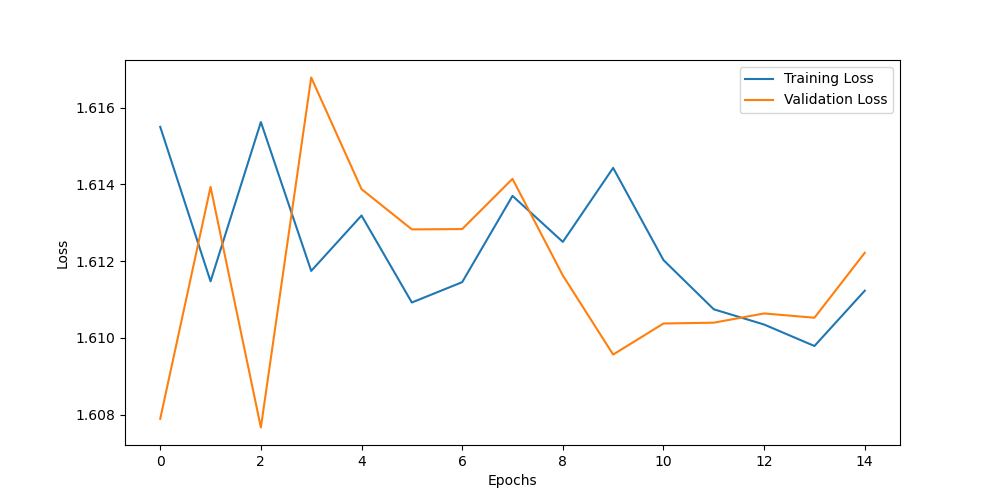
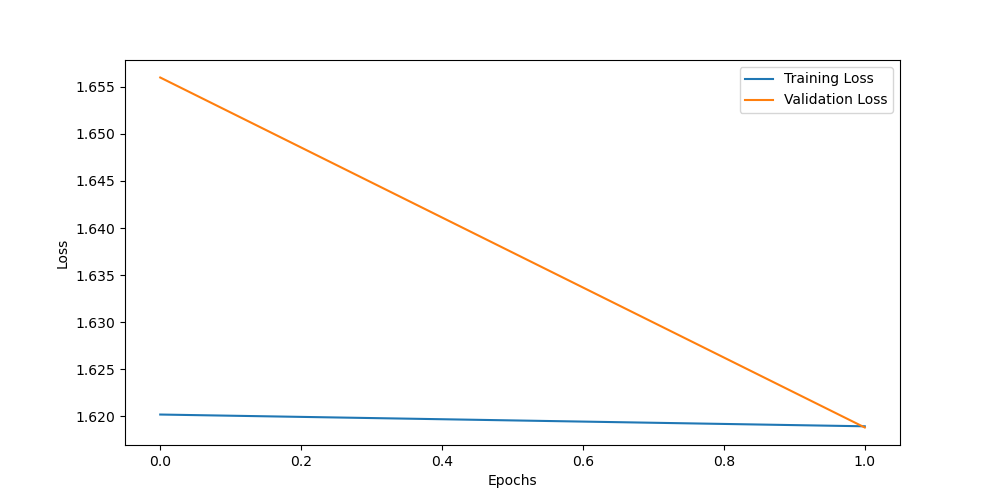
Feature extraction tested on the whole dataset

diff --git a/thermal_embedding/feature_extraction.py b/thermal_embedding/feature_extraction.py
@@ -1,0 +1,99 @@
+import torch
+import torch.nn as nn
+import torch.optim as optim
+from torchvision import datasets, transforms
+from facenet_pytorch import InceptionResnetV1
+from torch.utils.data import DataLoader, random_split
+from tqdm import tqdm
+
+# Check if CUDA is available
+device = torch.device('cuda:1' if torch.cuda.is_available() else 'cpu')
+print('Using device:', device)
+
+# 1. Prepare Dataset
+dataset_path = "/media/meysam/NewVolume/MintPain_dataset/cropped_face/thermal_classified"
+dataset = datasets.ImageFolder(dataset_path, transform=transforms.Compose([
+    transforms.Resize((160, 160)),
+    transforms.RandomHorizontalFlip(),
+    transforms.ToTensor(),
+    transforms.Normalize(mean=[0.5, 0.5, 0.5], std=[0.5, 0.5, 0.5]),
+]))
+
+# Split dataset
+train_size = int(0.7 * len(dataset))
+val_size = int(0.15 * len(dataset))
+test_size = len(dataset) - train_size - val_size
+train_dataset, val_dataset, test_dataset = random_split(dataset, [train_size, val_size, test_size])
+
+# Create DataLoader for each set
+batch_size = 64
+train_loader = DataLoader(train_dataset, batch_size, shuffle=True)
+val_loader = DataLoader(val_dataset, batch_size, shuffle=False)
+test_loader = DataLoader(test_dataset, batch_size, shuffle=False)
+
+# 2. Load Pre-trained Model
+model = InceptionResnetV1(pretrained='vggface2', classify=True, num_classes=len(dataset.class_to_idx))
+model = model.to(device)
+
+# 3. Define Loss Function and Optimizer
+criterion = nn.CrossEntropyLoss()
+optimizer = optim.Adam(model.parameters(), lr=1e-4)
+
+# 4. Training Loop
+num_epochs = 10
+for epoch in range(num_epochs):
+    model.train()
+    running_loss = 0.0
+    total = 0
+    correct = 0
+    print(f'Epoch [{epoch + 1}/{num_epochs}')
+    progress_bar = tqdm(train_loader, unit='batch')
+    for inputs, labels in progress_bar:
+        inputs, labels = inputs.to(device), labels.to(device)
+        optimizer.zero_grad()
+        outputs = model(inputs)
+        _, predicted = torch.max(outputs.data, 1)
+        total += labels.size(0)
+        correct += (predicted == labels).sum().item()
+        loss = criterion(outputs, labels)
+        loss.backward()
+        optimizer.step()
+        running_loss += loss.item()
+        accuracy = 100 * correct / total
+        progress_bar.set_postfix(loss=running_loss / total, accuracy=f'{accuracy:.2f}%')
+
+    # Validation
+    model.eval()
+    val_loss = 0.0
+    val_correct = 0
+    val_total = 0
+    with torch.no_grad():
+        for inputs, labels in val_loader:
+            inputs, labels = inputs.to(device), labels.to(device)
+            outputs = model(inputs)
+            _, predicted = torch.max(outputs.data, 1)
+            val_total += labels.size(0)
+            val_correct += (predicted == labels).sum().item()
+            loss = criterion(outputs, labels)
+            val_loss += loss.item()
+    val_accuracy = 100 * val_correct / val_total
+    print(f'Validation Loss: {val_loss / val_total}, Validation Accuracy: {val_accuracy}%\n')
+
+print('Finished Training')
+
+# 6. (Optional) Test Evaluation
+model.eval()
+test_loss = 0.0
+test_correct = 0
+test_total = 0
+with torch.no_grad():
+    for inputs, labels in test_loader:
+        inputs, labels = inputs.to(device), labels.to(device)
+        outputs = model(inputs)
+        _, predicted = torch.max(outputs.data, 1)
+        test_total += labels.size(0)
+        test_correct += (predicted == labels).sum().item()
+        loss = criterion(outputs, labels)
+        test_loss += loss.item()
+test_accuracy = 100 * test_correct / test_total
+print(f'Test Loss: {test_loss / test_total}, Test Accuracy: {test_accuracy}%')

diff --git a/thermal_embedding/preprocessing_02.py b/thermal_embedding/preprocessing_02.py
@@ -1,0 +1,35 @@
+import os
+import glob
+import numpy as np
+
+
+def count_files_in_folder(folder_path):
+    file_count = 0
+    for root, dirs, files in os.walk(folder_path):
+        file_count += len(files)
+    return file_count
+
+
+def find_and_count_files(base_path, target_folder):
+    folder_paths = glob.glob(os.path.join(base_path, '**', target_folder), recursive=True)
+    num_files_list = []
+    for folder_path in folder_paths:
+        num_files = count_files_in_folder(folder_path)
+        num_files_list.append(num_files)
+        print(f'Number of files in "{folder_path}": {num_files}')
+
+    if num_files_list:
+        print(f'Maximum number of files in a folder: {np.max(num_files_list)}')
+        print(f'Minimum number of files in a folder: {np.min(num_files_list)}')
+        print(f'Standard deviation of number of files: {np.std(num_files_list):.2f}')
+        print(f'Mean number of files: {np.mean(num_files_list):.2f}')
+        print(f'Median number of files: {np.median(num_files_list):.2f}')
+        print(np.sort(num_files_list)[-10:])
+    else:
+        print('No "T" folders found.')
+
+
+if __name__ == '__main__':
+    base_path = '/media/meysam/NewVolume/MintPain_dataset/data'
+    target_folder = 'RGB'
+    find_and_count_files(base_path, target_folder)

diff --git a/thermal_embedding/preprocessing_01.py b/thermal_embedding/preprocessing_01.py
@@ -1,0 +1,30 @@
+import os
+import shutil
+
+# The directory containing the JPG images
+source_dir = "/media/meysam/NewVolume/MintPain_dataset/cropped_face/T"
+
+# The base directory to create the folders 0, 1, 2, 3, and 4
+base_dir = "/media/meysam/NewVolume/MintPain_dataset/cropped_face/thermal_classified"
+
+# Ensure the destination directories exist, create if not
+for i in range(5):
+    dest_dir = os.path.join(base_dir, str(i))
+    os.makedirs(dest_dir, exist_ok=True)
+
+# Loop through all files in the source directory
+for filename in os.listdir(source_dir):
+    if filename.endswith(".jpg") and "Label" in filename:
+        # Extract the label number from the filename
+        label = filename.split("Label")[-1][0]
+        if label.isdigit() and 0 <= int(label) <= 4:
+            # Construct the source and destination file paths
+            src_file = os.path.join(source_dir, filename)
+            dest_dir = os.path.join(base_dir, label)
+            dest_file = os.path.join(dest_dir, filename)
+
+            # Move the file
+            shutil.move(src_file, dest_file)
+            print(f"Moved {filename} to folder {label}")
+
+print("Image sorting complete.")

diff --git a/train.py b/train.py
@@ -138,8 +138,9 @@ def main():
     batch_size = 32
     sequence_length = 7
     learning_rate = 0.001
-    num_epochs = 15
-    device = torch.device("cuda:0" if torch.cuda.is_available() else "cpu")
+    num_epochs = 2
+    # device = torch.device("cuda:0" if torch.cuda.is_available() else "cpu")
+    device = 'cpu'
 
     # Initialize datasets and dataloaders
     train_dataset = RandomDataset(1000, sequence_length, input_dim)
